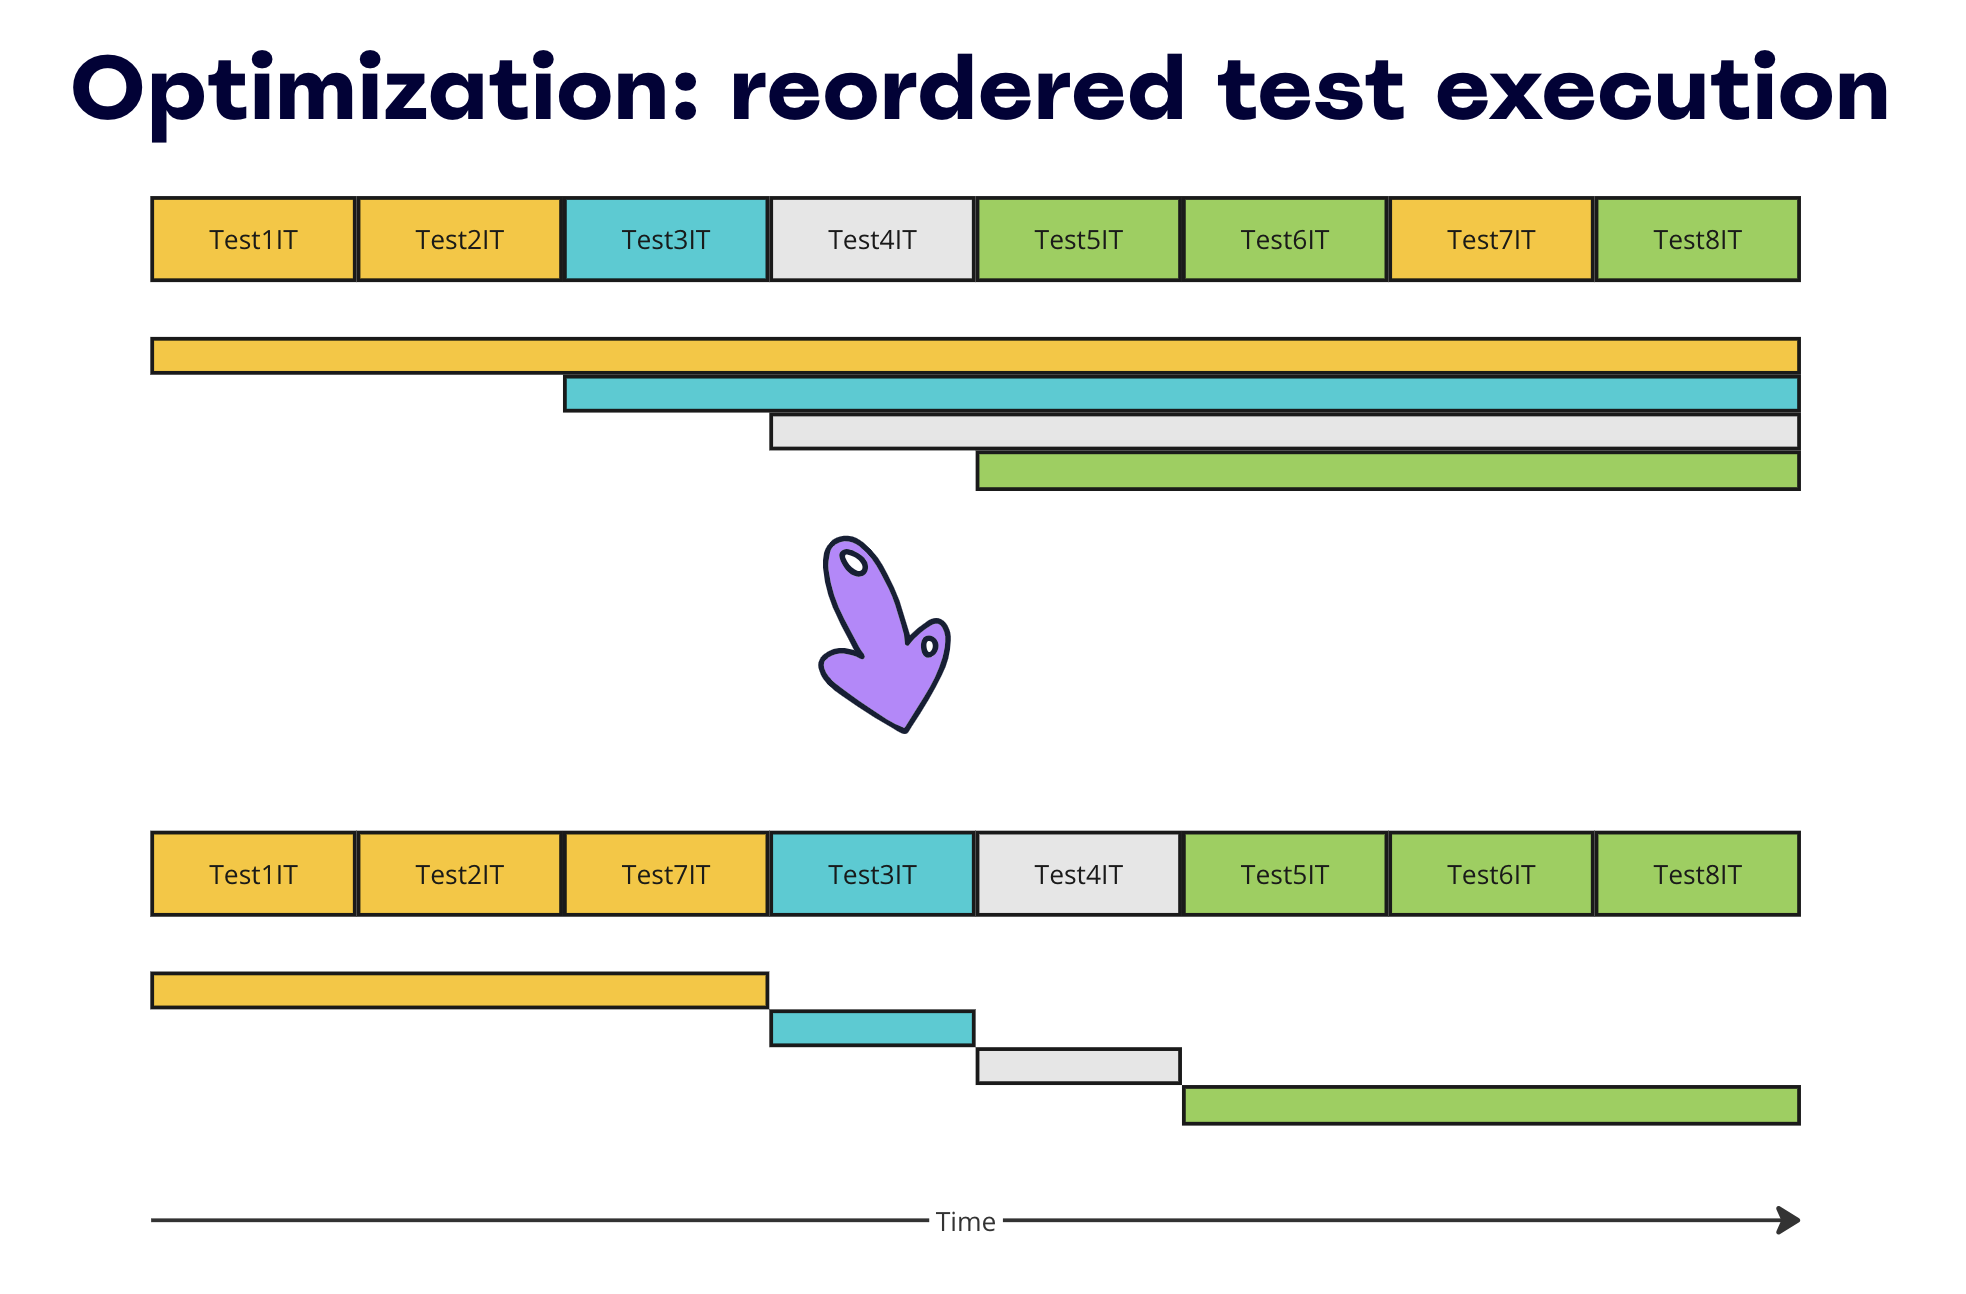
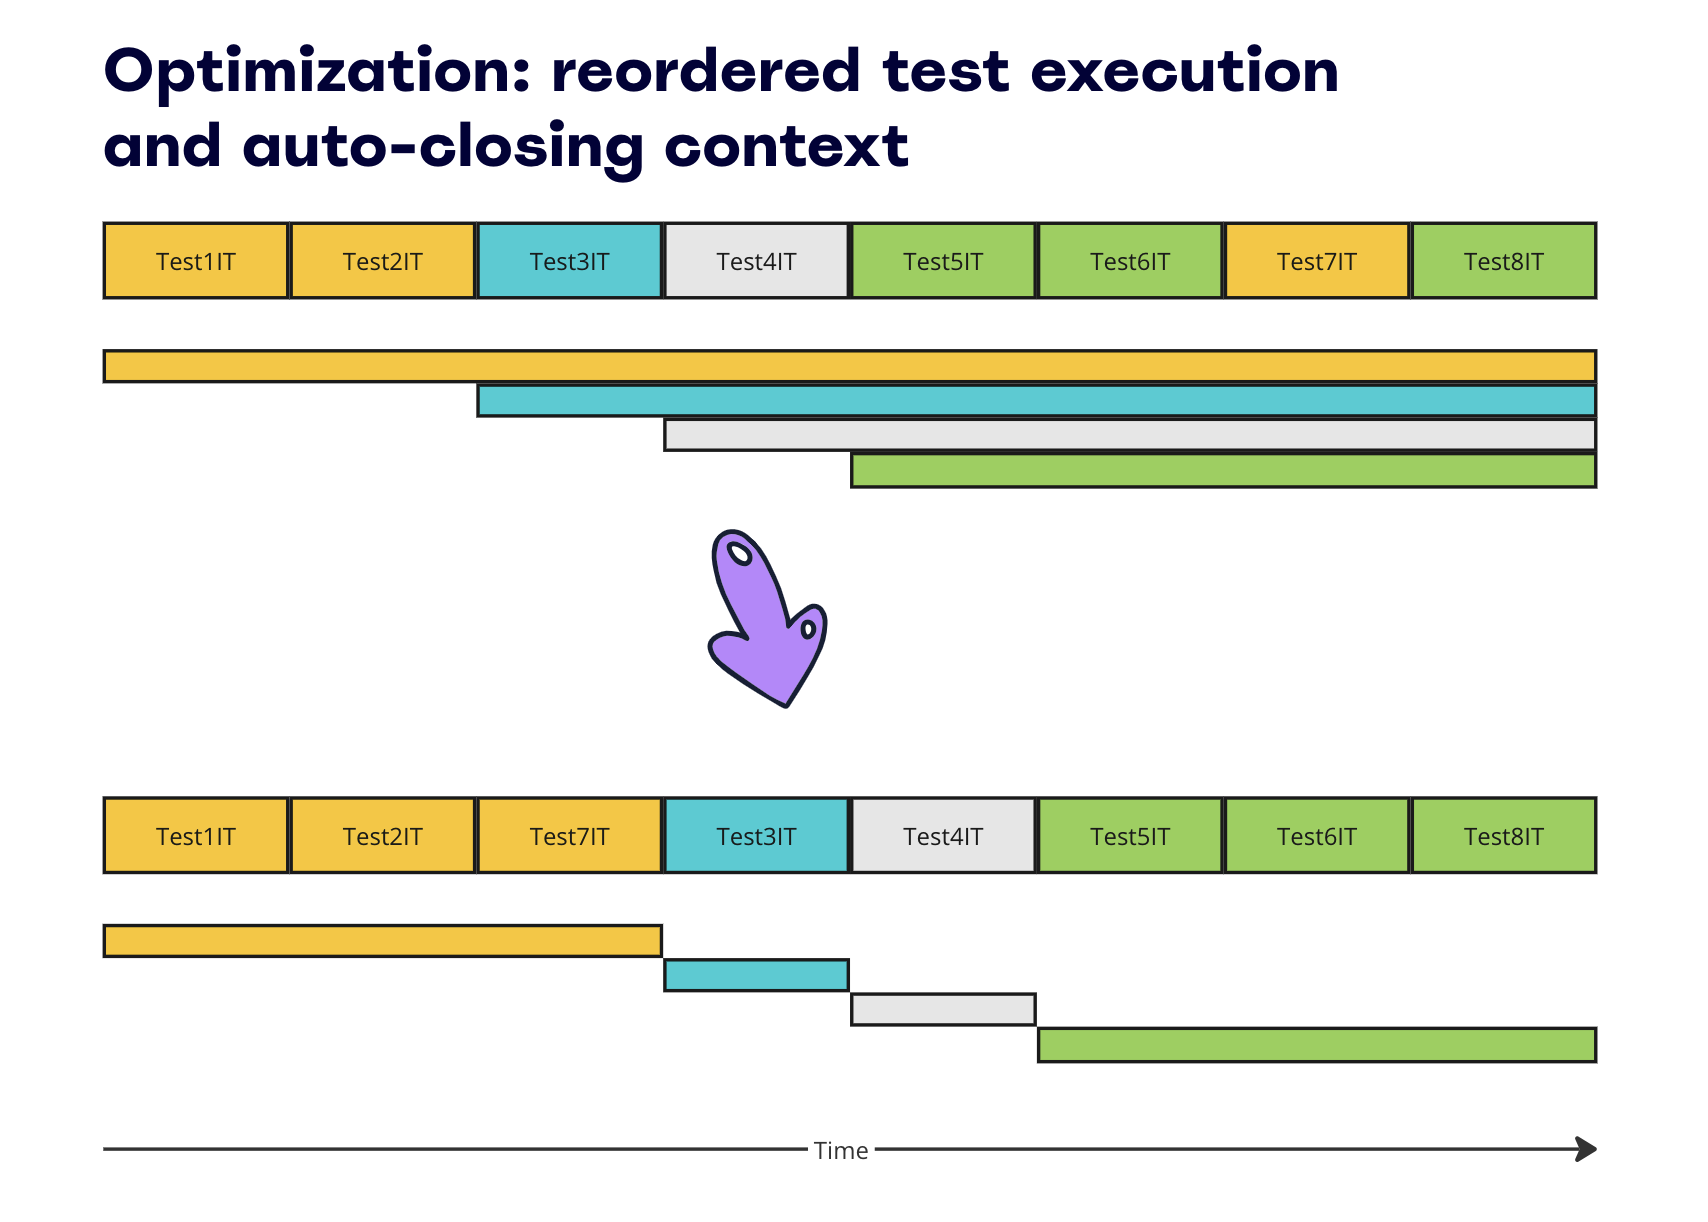
Enhance README diagrams

diff --git a/README.md b/README.md
@@ -1,6 +1,6 @@
 ## Improving Spring Boot Test efficiency
 
-### Problem statement and solution
+### Problem statement
 Spring test framework creates an application context according to test class configuration.
 The context is cached and reused for all subsequent tests. If there is an existing context
 with the same configuration, it will be reused. Otherwise, the new context will be created.
@@ -17,8 +17,11 @@ are marked with the same colour:
 In a large test suites as well as in shared CI/CD environments with lots of test pipelines
 working simultaneously this may eventually lead to out of memory errors
 in Java process or Docker host.
-It's recommended to optimize reusing same configuration between tests e.g. via common test super-classes,
-but additionally this library makes two optimizations:
+
+### Proposed solution
+It's recommended to use statically-defined TestContainers beans, optimize reusing same configuration between tests 
+e.g. via common test super-classes.
+But additionally this library makes two optimizations:
 * test class execution is reordered to group tests with the same context configuration so they
 can be executed sequentially
 * the order of tests is known, so if current test class is last per current configuration, the spring context
@@ -128,6 +131,19 @@ Also the `surefire`/`failsafe` plugins should be configured to use junit-platfor
 <plugin>
     <groupId>org.apache.maven.plugins</groupId>
     <artifactId>maven-surefire-plugin</artifactId>
+    <version>${maven-surefire.version}</version>
+    <dependencies>
+        <dependency>
+            <groupId>org.apache.maven.surefire</groupId>
+            <artifactId>surefire-junit-platform</artifactId>
+            <version>${maven-surefire.version}</version>
+        </dependency>
+    </dependencies>
+</plugin>
+<plugin>
+    <groupId>org.apache.maven.plugins</groupId>
+    <artifactId>maven-failsafe-plugin</artifactId>
+    <version>${maven-surefire.version}</version>
     <dependencies>
         <dependency>
             <groupId>org.apache.maven.surefire</groupId>
